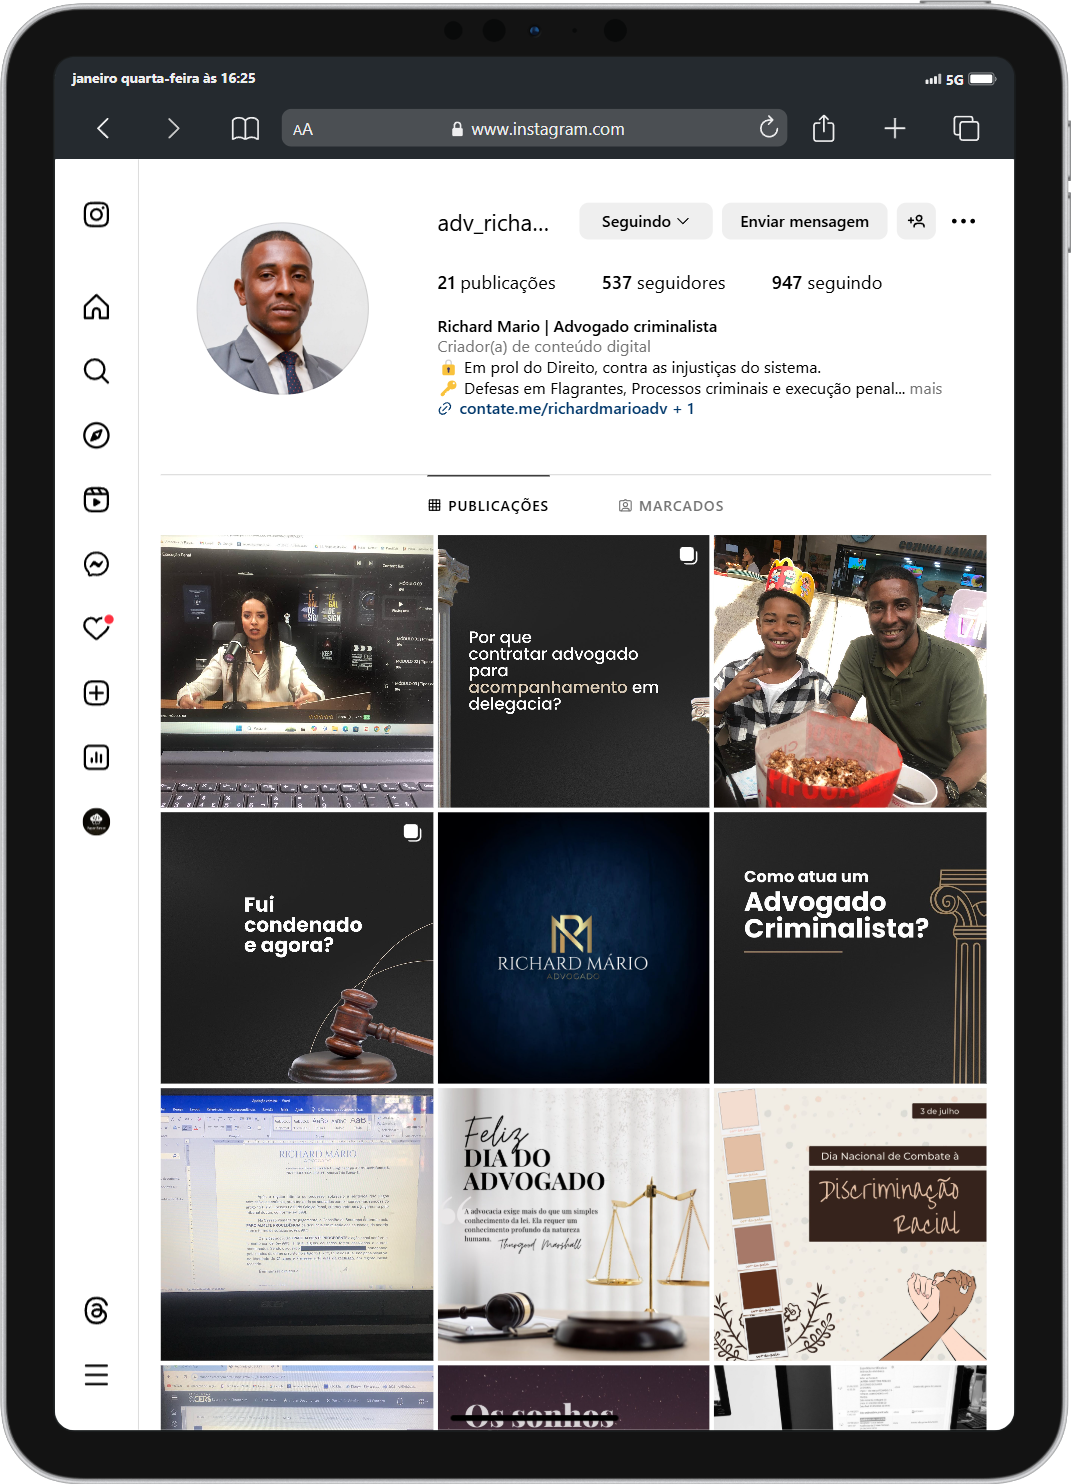
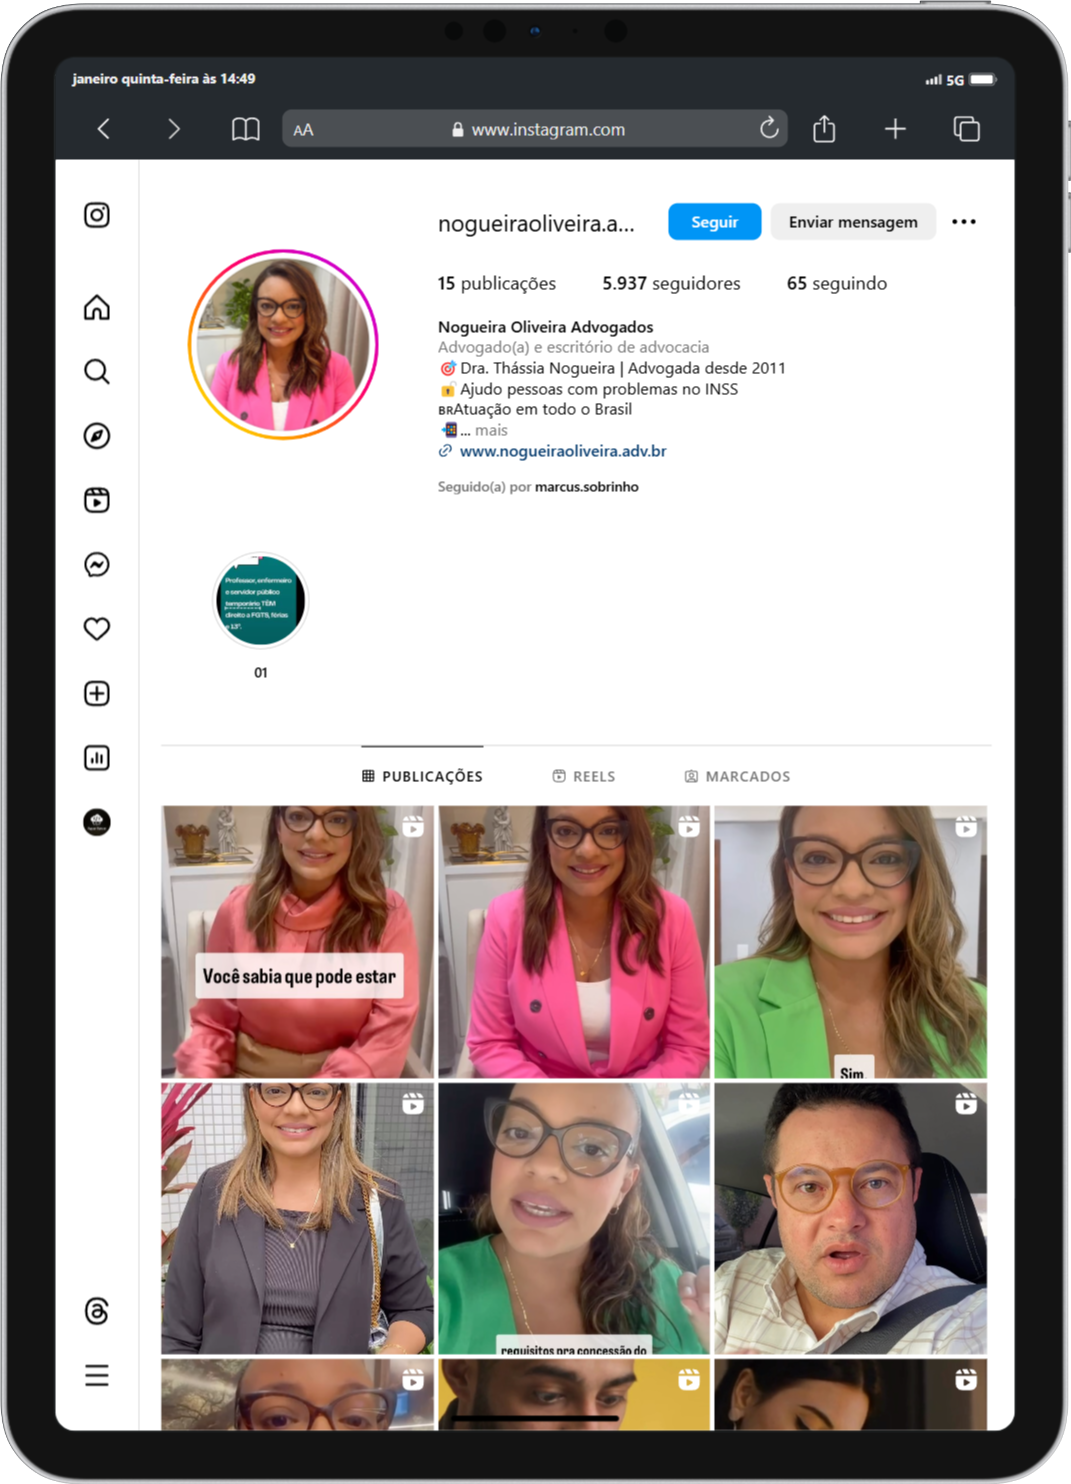
feat: Atualiza instagram

diff --git a/src/content/content.jsx b/src/content/content.jsx
@@ -66,7 +66,7 @@ export const infos = {
     </div>
   ),
   obs: <span className="italic">A Definir</span>,
-  instagramProfile: "adv.previdenc", // Sem o @
+  instagramProfile: "nogueiraoliveira.advogados", // Sem o @
   facebookProfile: "A_Definir",
   linkeDinProfile: "A_Definir",
   x: "A_Definir",

diff --git a/src/pages/Index.jsx b/src/pages/Index.jsx
@@ -45,7 +45,7 @@ export default function Index() {
       <FeaturesParagraphs /> */}
       <About modal={true} />
       <AboutInstagram
-        socialPrint={false}
+        socialPrint={true}
         instagram={true}
         facebook={false}
         linkedin={false}
